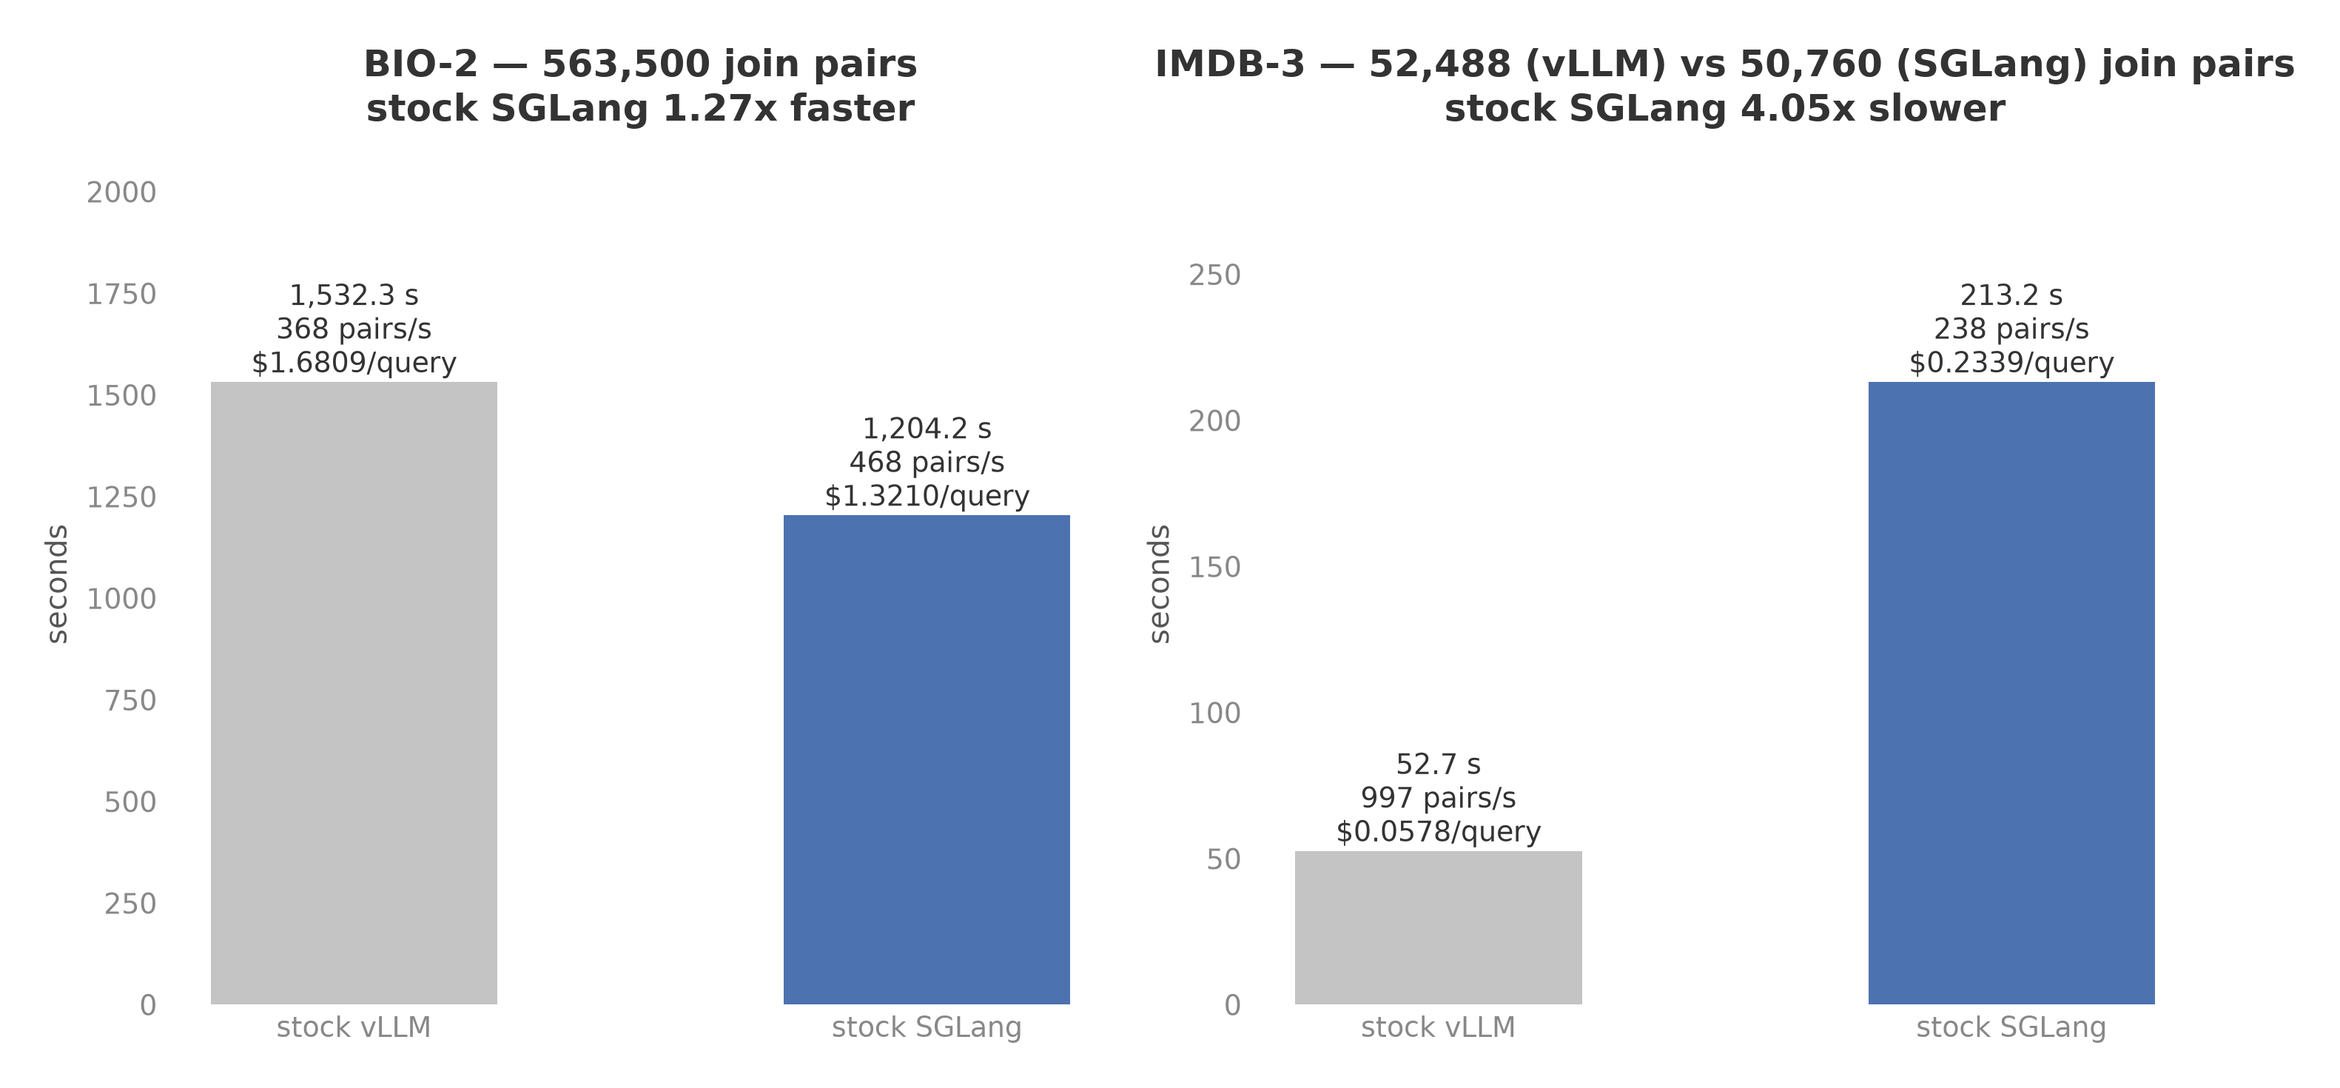
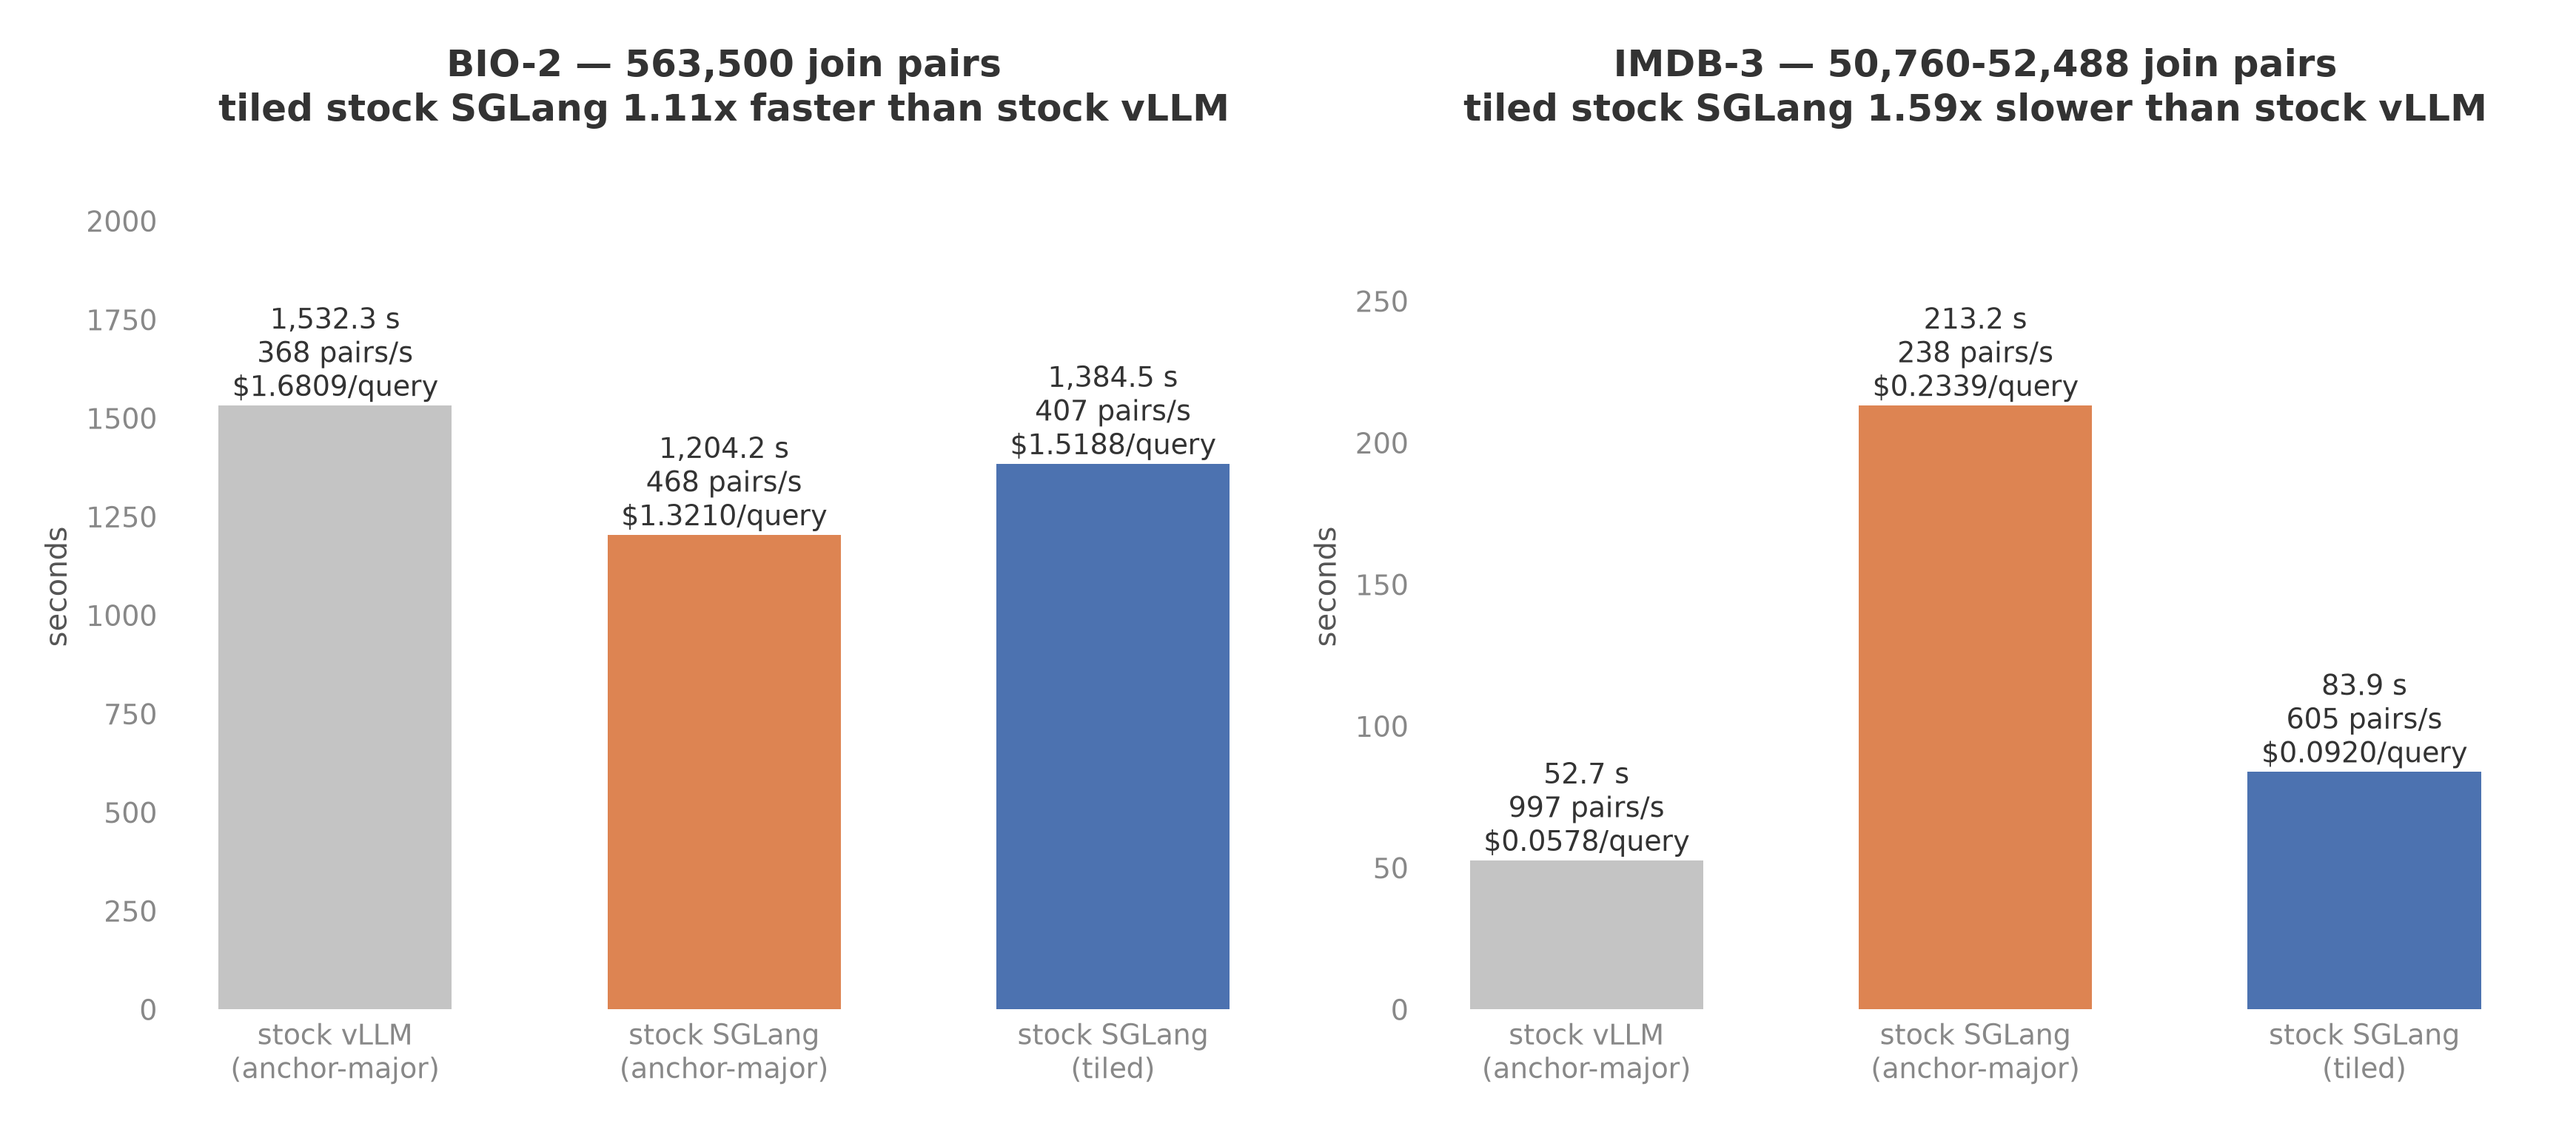
Report the tiled join order results
The tiled order recovers the radix cache exactly as designed: IMDB-3
falls from 213.2 to 83.9 seconds (join fresh tokens 17.0M to 1.94M)
and BIO-2's hit rate rises to 99.70% - yet BIO-2 slows from 1204.2
to 1384.5 seconds, so its cost is per-request work, not prefill
compute. Both SGLang orders returned bit-identical answers. The plot
now shows all three measured configurations.

Claude-Session: https://claude.ai/code/session_017XLHZA2u7musykjQk9A5pg

diff --git a/reports/make_stock_sglang_baseline_plots.py b/reports/make_stock_sglang_baseline_plots.py
@@ -6,7 +6,7 @@ work directory to this script:
     W=<workdir>
     modal volume get quail-results stock_vllm/20260829T185407Z-quailb-sf0.1-lf1-qwen3-4b-fp8-families/summary.json $W/stock_vllm.json
     modal volume get quail-results stock_sglang/2026-08-30_033502_05712d88/summary.json $W/stock_sglang_anchor_major.json
-    modal volume get quail-results stock_sglang/TILED_LABEL/summary.json $W/stock_sglang_tiled.json
+    modal volume get quail-results stock_sglang/2026-08-30_042550_e5f6d2e8/summary.json $W/stock_sglang_tiled.json
     uv run --with matplotlib python reports/make_stock_sglang_baseline_plots.py $W
 """
 

diff --git a/reports/2026-08-30-stock-sglang-baseline.md b/reports/2026-08-30-stock-sglang-baseline.md
@@ -13,8 +13,17 @@ document pair for joins (full cross product). It imports the query
 definitions, prompt construction, and per-query bookkeeping from
 `baselines.stock_vllm.run`, so the two baselines cannot drift apart.
 
-The run covers the two representative queries at scale factor 0.1 with
-Qwen3 4B fp8 on one H100!:
+Two join submission orders were measured for SGLang, because its
+prefix cache turned out to reward a different order than vLLM's:
+
+- anchor-major, the stock vLLM order: all pairs of one anchor
+  document, then the next anchor.
+- suffix-major in anchor tiles: anchors are grouped into tiles that
+  fit in half the KV pool; within a tile, every anchor runs once per
+  partner document (a1 b1, a2 b1, ..., a1 b2, a2 b2, ...).
+
+The runs cover the two representative queries at scale factor 0.1
+with Qwen3 4B fp8 on one H100!:
 
 - BIO-2: one join, REACTION over 500 reports x 1,127 terms =
   563,500 pairs.
@@ -23,20 +32,34 @@ Qwen3 4B fp8 on one H100!:
 
 ## Result
 
-- BIO-2: stock SGLang took 1,204.2 seconds, compared with stock
-  vLLM's 1,532.3 seconds. Stock SGLang was 1.27 times faster.
-- IMDB-3: stock SGLang took 213.2 seconds, compared with stock
-  vLLM's 52.7 seconds. Stock SGLang was 4.05 times slower.
-- The filter stage alone was a tie: 21.5 seconds on SGLang and
-  21.2 seconds on vLLM for the same 5,000 reviews.
-- The engines disagree on borderline answers. The F1 filter passed
-  4,230 reviews on SGLang and 4,374 on vLLM. BIO-2 returned 114,869
-  TRUE pairs on SGLang and 121,406 on vLLM.
+- Neither submission order wins both queries, and the two orders
+  bracket stock vLLM:
+  - BIO-2: anchor-major SGLang took 1,204.2 seconds (1.27 times
+    faster than stock vLLM's 1,532.3); tiled SGLang took
+    1,384.5 seconds (1.11 times faster than vLLM, 15% slower than
+    anchor-major SGLang).
+  - IMDB-3: anchor-major SGLang took 213.2 seconds (4.05 times
+    slower than stock vLLM's 52.7); tiled SGLang took 83.9 seconds
+    (2.54 times faster than anchor-major SGLang, still 1.59 times
+    slower than vLLM).
+- The tiled order recovered the prefix cache as designed. On IMDB-3
+  the join's fresh prompt tokens fell from 17.0M (6.5% cached) to
+  1.94M (89.3% cached, matching vLLM's 88.4%). On BIO-2 they fell
+  from 26.3M to 7.0M (99.70% cached, above vLLM's 99.55%) — and the
+  query still got slower, so BIO-2's remaining time is not prefill
+  compute.
+- The two SGLang orders returned bit-identical answers on both
+  queries (4,230 filter survivors; 114,869 and 11,351 TRUE pairs),
+  so the reorder is free of answer effects. The engines still
+  disagree with each other: stock vLLM passed 4,374 reviews and
+  returned 121,406 TRUE pairs on BIO-2.
 - Answer accuracy against the same Qwen3 32B ground truth labels was
   higher on SGLang for both queries: 82.03% vs 80.92% on BIO-2 and
-  79.94% vs 78.97% on IMDB-3.
-- Model startup, excluded from query time: 314.4 seconds for SGLang
-  (with warm kernel caches), compared with 143.8 to 235.2 seconds
+  79.94% vs 78.97% on IMDB-3, identically for both orders.
+- The filter stage is order-free and stayed a tie: 22.7 seconds on
+  SGLang and 21.2 seconds on vLLM for the same 5,000 reviews.
+- Model startup, excluded from query time: 314 to 355 seconds for
+  SGLang (warm kernel caches), compared with 143.8 to 235.2 seconds
   for the four vLLM family containers.
 
 ## Main metrics
@@ -45,28 +68,28 @@ Figure: plots/stock_sglang_vs_stock_vllm.png
 
 | Query | System | Query time (s) | Document pairs/s | $/query | Answer accuracy |
 |---|---|---:|---:|---:|---:|
-| BIO-2 | stock vLLM | 1,532.25 | 367.8 | $1.6809 | 80.92% |
-| BIO-2 | stock SGLang | 1,204.21 | 467.9 | $1.3210 | 82.03% |
-| IMDB-3 | stock vLLM | 52.65 | 996.9 | $0.0578 | 78.97% |
-| IMDB-3 | stock SGLang | 213.19 | 238.1 | $0.2339 | 79.94% |
+| BIO-2 | stock vLLM, anchor-major | 1,532.25 | 367.8 | $1.6809 | 80.92% |
+| BIO-2 | stock SGLang, anchor-major | 1,204.21 | 467.9 | $1.3210 | 82.03% |
+| BIO-2 | stock SGLang, tiled | 1,384.50 | 407.0 | $1.5188 | 82.03% |
+| IMDB-3 | stock vLLM, anchor-major | 52.65 | 996.9 | $0.0578 | 78.97% |
+| IMDB-3 | stock SGLang, anchor-major | 213.19 | 238.1 | $0.2339 | 79.94% |
+| IMDB-3 | stock SGLang, tiled | 83.88 | 605.1 | $0.0920 | 79.94% |
 
 Document pairs/s divides each system's own evaluated join pairs
 (563,500 for BIO-2; 52,488 for vLLM and 50,760 for SGLang on IMDB-3,
 because the filters passed different survivor sets) by full query
 runtime. $/query uses $3.9492 per H100! hour and excludes startup.
 
-## Prediction
+## Prediction, first run (anchor-major)
 
 Stated before the run. The stock vLLM constants were BIO-2 in
-1,532.3 seconds and IMDB-3 in 52.7 seconds (2026-08-29 run). BIO-2's
-wall time is dominated by per-request host work, and the assumption
-was that SGLang does equivalent host work and equivalent prefix
-caching per request. The prediction:
+1,532.3 seconds and IMDB-3 in 52.7 seconds (2026-08-29 run), and the
+assumption was that SGLang does equivalent host work and equivalent
+prefix caching per request:
 
 - BIO-2 finishes in 1,100 to 2,100 seconds. Hit: 1,204.2 seconds.
 - IMDB-3 finishes in 40 to 75 seconds. Missed by 2.8x: 213.2
-  seconds. The caching assumption was wrong for this query shape; the
-  next section explains the mechanism.
+  seconds. The caching assumption was wrong for this query shape.
 - The F1 filter passes 4,374 +/- 10 of 5,000 reviews. Missed: 4,230,
   144 fewer than stock vLLM.
 - Join TRUE counts land within 1% of stock vLLM's. Missed: BIO-2
@@ -74,44 +97,74 @@ caching per request. The prediction:
 - Answer accuracy lands within 0.5 points of stock vLLM's. Missed in
   SGLang's favor: +1.11 points on BIO-2, +0.97 on IMDB-3.
 
+## Prediction, second run (tiled order)
+
+Stated before the run:
+
+- IMDB-3 drops to 50-85 seconds, join fresh tokens from 17.0M to
+  about 3.5M. Time hit (83.9 seconds); fresh tokens beat the
+  prediction at 1.94M, because 1-token pages recompute only the
+  partner document and answer cue once the anchor is cached.
+- BIO-2 drops to 950-1,200 seconds, fresh tokens from 26.3M to about
+  13M. Missed in both directions: fresh fell further than predicted
+  (7.0M) and the query still got slower (1,384.5 seconds).
+- TRUE counts within 0.5% of the anchor-major SGLang run and
+  accuracy within 0.3 points. Hit exactly: both orders returned
+  identical answers.
+
 ## What the numbers mean
 
-The split result comes from when each engine's prefix cache becomes
-usable, not from raw speed:
+The IMDB-3 gap and its fix confirm the cache mechanism:
 
 - SGLang's radix cache stores a prompt's KV when a request finishes.
-  All pairs of one anchor document are submitted consecutively, so
-  every pair that starts while the anchor's first pair is still
-  running recomputes the anchor document from scratch.
-- IMDB-3 is the worst case: each review has only 12 pairs, and all 12
-  are in flight before the first finishes. SGLang reused only 1.18M
-  of the join's 18.19M prompt tokens (6.5%), recomputing 335 tokens
-  per pair. vLLM reuses completed 16-token blocks of still-running
-  requests, reused 88.4%, and recomputed 41 tokens per pair. That is
-  why SGLang's join took 191.7 seconds against vLLM's 31.5.
-- BIO-2 mostly hides the same effect: each report has 1,127 pairs, so
-  only the pairs admitted before the anchor's first completion pay
-  the penalty. SGLang still computed 2.5 times the fresh tokens
-  (26.3M vs 10.5M) but won anyway, 2.14 ms per pair against vLLM's
-  2.72 ms, because its per-request scheduling overhead is lower and
-  the extra prefill compute is cheap at this scale.
-- The filter tie (21.5 vs 21.2 seconds) supports that reading:
-  filters share no document prefix, so both engines prefill about
-  1.75M fresh tokens, and they do it at the same rate.
-- The answer divergence is fp8 kernel noise at the decision boundary,
-  not degradation: the engines use different fp8 matrix kernels and
-  different batch shapes, which shifts logits on near-tie pairs.
-  About 1.2% of BIO-2 pairs net flipped. Accuracy against ground
-  truth went up slightly on both queries, so neither engine is
-  cleanly more correct; they disagree on pairs the 4B model finds
-  ambiguous either way.
+  Anchor-major submission puts all 12 pairs of one review in flight
+  before the first finishes, so the review is recomputed for almost
+  every pair: 335 fresh tokens per pair, 6.5% of join prompt tokens
+  cached, a 191.7 second join. vLLM does not have this problem
+  because it reuses computed 16-token blocks without waiting for the
+  request that produced them to finish (88.4% cached, 41 fresh
+  tokens per pair, 31.5 seconds).
+- The tiled order removes the co-admission: within a tile no two
+  in-flight pairs share an uncached anchor, and from the second
+  suffix pass on, every anchor is cached. IMDB-3's join fell to 38
+  fresh tokens per pair and 61.1 seconds. The tile bound matters:
+  suffix-major over all 4,230 anchors at once (1.5M anchor tokens
+  against a 415k-token pool) would evict every anchor before its
+  next use and gain nothing.
+- Reordering inside SGLang's scheduler would not have achieved this.
+  The cache-aware policy (`lpm`) is no longer the default (`fcfs`
+  is), it falls back to FCFS whenever more than 128 requests wait,
+  and sorting by cached-prefix length cannot delay a pair so that
+  its sibling can populate the cache first. The order had to come
+  from the client.
 
-The IMDB-3 number is a property of stock SGLang's cache design on
-this submission pattern, not of the shared submission code: the same
-ordered pair stream produced an 88.4% hit rate on vLLM. A rerun that
-throttles submission so each anchor's first pair completes before its
-siblings start would recover the reuse but would no longer be the
-stock submission strategy, so it was not done here.
+BIO-2 shows the limit of ordering alone:
+
+- The tiled order raised BIO-2's cache hit rate to 99.70% and cut
+  fresh tokens from 26.3M to 7.0M, yet the query slowed from 1,204.2
+  to 1,384.5 seconds. Prefill compute is therefore not what BIO-2's
+  1,200 seconds buy: at 2.1 milliseconds per pair, per-request
+  scheduling and answer work dominates.
+- The leading explanation for the 15% regression is batch shape.
+  With about 9 fresh tokens per pair, a 25,305-token budget admits
+  thousands of requests per batch instead of about 540, and each
+  batch's answer step materializes float32 logits and a logit-bias
+  tensor for every request over the 151,936-token vocabulary, while
+  the attention kernel pads each request's few query tokens to a
+  full tile. This is unsettled; per-step logs (a rerun with
+  `log_level=info`) showing batch composition and step times for
+  both orders would settle it.
+- The answer bits were identical between the two SGLang orders on
+  both queries, so batch shape moves time, not answers. The
+  remaining answer divergence is between engines (different fp8
+  kernels; about 1.2% of BIO-2 pairs net flipped, accuracy slightly
+  up on SGLang), not between submission orders.
+
+The runner keeps the tiled order as its default: it caps the
+downside on queries with few pairs per anchor (IMDB-3 was 4.05 times
+slower than vLLM anchor-major, 1.59 times slower tiled) and costs
+15% on deep-anchor queries like BIO-2. Anchor-major remains
+selectable through `join_submission`.
 
 ## Configuration
 
@@ -124,6 +177,7 @@ gets the analytically equivalent settings:
 | Max concurrent requests | `max_num_seqs=4096` | `max_running_requests=4096` |
 | Scheduled token budget | `max_num_batched_tokens=25305` | `chunked_prefill_size=25305`, `max_prefill_tokens=25305` |
 | Prefix caching | on, 16-token blocks | radix cache on (default), 1-token pages |
+| Join pair order | anchor-major | anchor-major and suffix-major tiled, both measured |
 | Answer decoding | greedy, `allowed_token_ids` = the 8 TRUE/FALSE first tokens | greedy, `logit_bias=+1000` on the same 8 token ids |
 | Scheduling policy | first come, first served | first come, first served (default) |
 | Checkpoint | `Qwen/Qwen3-4B-FP8` | `Qwen/Qwen3-4B-FP8` |
@@ -136,6 +190,15 @@ the same constant to all eight allowed ids picks the same token as
 restricting the argmax to those ids, as long as no other token's raw
 logit is 1,000 higher. Raw logit gaps are two orders of magnitude
 smaller than that.
+
+The tiled join order packs anchors greedily into tiles whose anchor
+tokens plus one suffix stay under half the measured KV pool
+(207,512 tokens here): about 528 reviews per tile on IMDB-3 and 50
+reports per tile on BIO-2. Half the pool bounds a tile because
+in-flight suffixes and the previous tile's leftovers share the pool
+with the tile's anchors. Answers are returned in anchor-major order
+either way, so the shared bookkeeping is unchanged
+(`baselines.stock.suffix_major_tiled_order`).
 
 The memory fraction cannot be copied literally, and finding that out
 took two crashed runs:
@@ -169,10 +232,9 @@ took two crashed runs:
 - The run uses `mem_fraction_static=0.78`: 79.18 GiB total minus
   about 6.5 GiB non-PyTorch, about 7 GiB answer-step and forward
   activations, and a safety margin. That gives SGLang a
-  415,024-token KV pool, 13.4% smaller than vLLM's 479,248. The two
-  queries submit join pairs anchor by anchor, so the live prefix
-  working set stays far below either pool size and the difference
-  does not change what gets cached.
+  415,024-token KV pool, 13.4% smaller than vLLM's 479,248. The
+  tiled order sizes its tiles from the measured pool, so the pool
+  difference does not change what gets cached.
 
 One driver-side change was also needed to finish at all. Handing
 SGLang all 563,500 BIO-2 pairs in one `generate()` call creates one
@@ -189,27 +251,32 @@ separate driver.
 Differences that remain, reported rather than hidden:
 
 - SGLang's prefix cache matches at 1-token pages but only after a
-  request completes; vLLM reuses completed 16-token blocks of
-  requests that are still running. This is the IMDB-3 story above.
+  request completes; vLLM reuses computed 16-token blocks of
+  requests that are still running. This is why the two engines get
+  different orders.
 - The vLLM image sets `PYTORCH_CUDA_ALLOC_CONF=expandable_segments`;
   the SGLang image does not, because SGLang allocates its KV pool
   statically inside `mem_fraction_static`.
-- The two baselines ran in different H100! containers on different
-  days. The stock vLLM numbers come from the 2026-08-29 family run.
+- The baselines ran in different H100! containers on different days.
+  The stock vLLM numbers come from the 2026-08-29 family run.
 
 ## Source data
 
-- Stock SGLang, function call `fc-01M18BR9BP6A74BT3TK5EFM9Z3`:
+- Stock SGLang, tiled order, function call
+  `fc-01M18ENA18EMP18BF43RXQVZK1`:
+  `/results/stock_sglang/2026-08-30_042550_e5f6d2e8/summary.json`
+- Stock SGLang, anchor-major order, function call
+  `fc-01M18BR9BP6A74BT3TK5EFM9Z3`:
   `/results/stock_sglang/2026-08-30_033502_05712d88/summary.json`
 - Stock vLLM (2026-08-29 family run):
   `/results/stock_vllm/20260829T185407Z-quailb-sf0.1-lf1-qwen3-4b-fp8-families/summary.json`
 
-Both runs scored accuracy against ground truth collection
+All runs scored accuracy against ground truth collection
 `gt_363b5ab570635c33894e1a030c21f57e` labels on corpus
 `c_3bd14ed0758287cba9d88fb68de8b7b8` (the vLLM run recorded the same
 label sets under their earlier collection id
 `gt_02ffa2a5720006e8236aa993760e9e29`).
 
 The plot script `reports/make_stock_sglang_baseline_plots.py` takes a
-work directory holding the two pulled files; its docstring has the
+work directory holding the three pulled files; its docstring has the
 `modal volume get` commands.

diff --git a/reports/shipped_features/2026-08-30-stock-sglang-baseline.md b/reports/shipped_features/2026-08-30-stock-sglang-baseline.md
@@ -42,7 +42,18 @@ submits in slices of 16,384 requests: one `generate()` call with all
 Modal threatened to kill the container. The report explains all
 three choices with the measured numbers.
 
+## Join pair order
+
+SGLang's radix cache stores KV only for finished requests, so
+vLLM's anchor-major pair order recomputes an anchor for every
+sibling in flight. `baselines.stock.suffix_major_tiled_order` adds a
+suffix-major order within anchor tiles sized to half the measured KV
+pool; the SGLang client uses it by default and anchor-major stays
+selectable. Answers return in anchor-major order either way. On
+IMDB-3 the tiled order cut the query from 213.2 to 83.9 seconds; on
+BIO-2 it cost 15% despite a higher cache hit rate.
+
 ## Numbers
 
-The first run and the comparison against stock vLLM on BIO-2 and
-IMDB-3 at sf=0.1 are in `reports/2026-08-30-stock-sglang-baseline.md`.
+Both runs and the comparison against stock vLLM on BIO-2 and IMDB-3
+at sf=0.1 are in `reports/2026-08-30-stock-sglang-baseline.md`.
